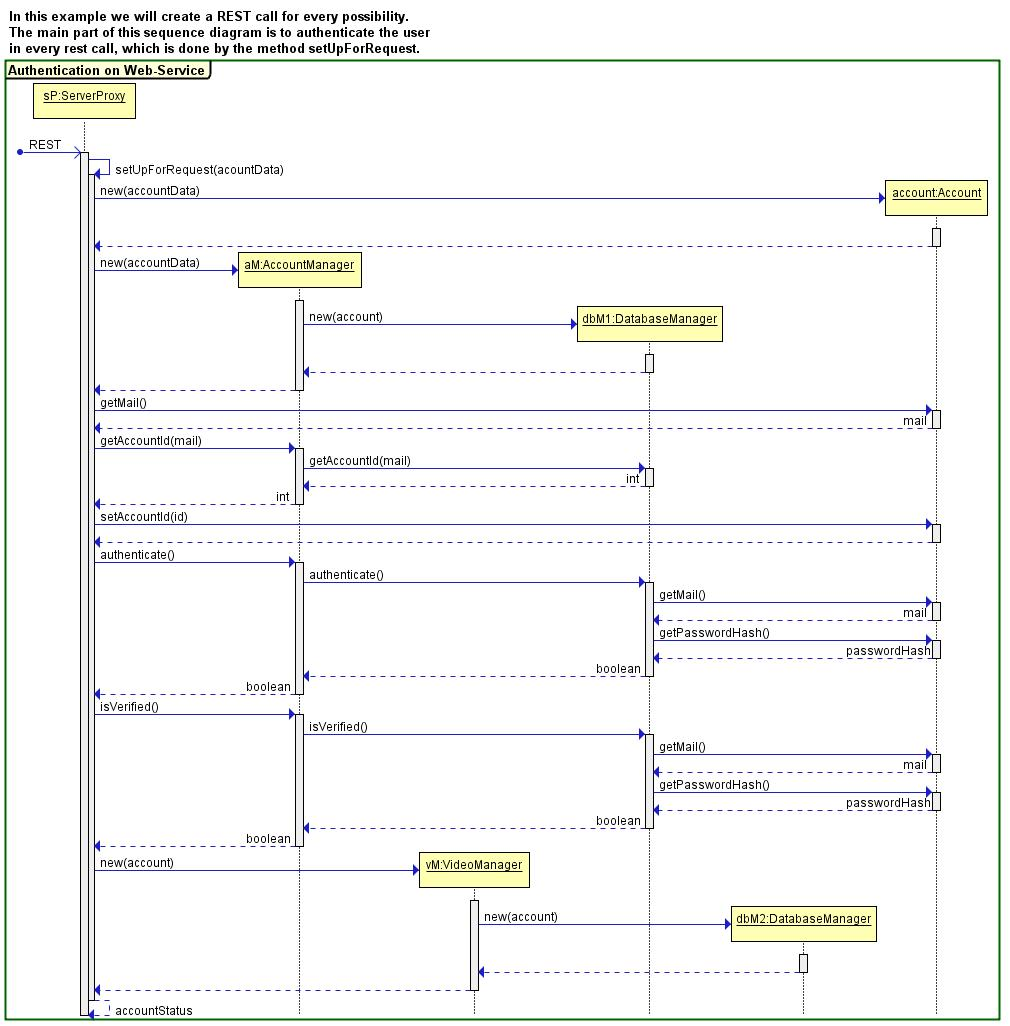
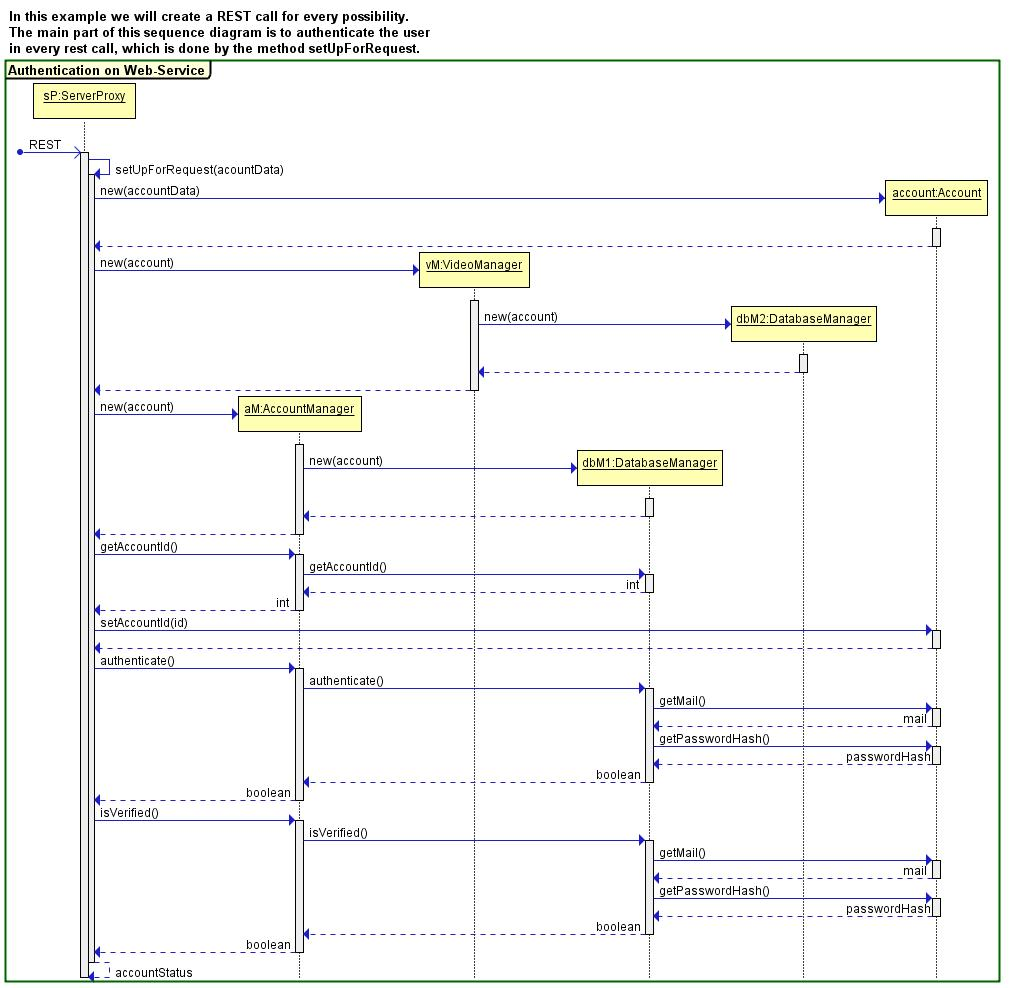
complete some class descriptions and fix sequences

diff --git a/subtopicsDesign/Webservice/Klassen/ServerProxy.tex b/subtopicsDesign/Webservice/Klassen/ServerProxy.tex
@@ -1,5 +1,5 @@
 \subsubsection{ServerProxy} \label{service:klasse:ServerProxy}
-Allgemeiner Text bliblablubb. \newline
+Der ServerProxy ist die Schnittstelle zwischen Web-Service und Web-Interface/App. Die Anfragen an den ServerProxy werden mittels der REST-API übermittelt. Die Anfragen werden in Teilanfragen aufgespalten und mithilfe der Manager Klassen weiter bearbeitet. \newline
 
 \underline{Attribute}
 \begin{itemize}
@@ -7,8 +7,14 @@ Allgemeiner Text bliblablubb. \newline
 \item \textbf{account: Account} \hfill\\ 
 \textbf{Sichtbarkeit} private
 
-Beschreibung
+Instanz des Accounts, der die Anfrage geschickt hat. Wird in der Methode setUpForRequest() initialisiert.
+\end{itemize}
 
+\underline{Konstruktoren}
+\begin{itemize}
+\itemsep0pt
+\item \textbf{ServerProxy()} \hfill\\
+Standardkonstruktor
 \end{itemize}
 
 \underline{Methoden}
@@ -17,51 +23,51 @@ Beschreibung
 \item \textbf{videoUpload (video: InputStream, metadata: InputStrem, encryptedSymmetricKey: String, accountData: String, response: AsyncResponse): String}\hfill\\
 \textbf{Sichtbarkeit} public
 
-Methodenbeschreibung
+Bearbeitet eine VideoUpload Anfrage der App. Übergibt die videobezogenen Parameter (video, metadata und encryptedSymmetricKey) und die AsyncResponse an die upload()-Methode im VideoManager. Die Rückgabe als Json-String gibt an, ob die Dateien vollständig angekommen sind. 
 
 \item \textbf{videoDownload(videoId: int, accountData: String): Response}\hfill\\
 \textbf{Sichtbarkeit} public
 
-Methodenbeschreibung
+Leitet einen Download-Anfrage ein. Gibt die VideoId an die download()-Methode des VideoManagers weiter. Mithilfe der Id wird dann das gesuchte Video gefunden. Die Response-Rückgabe ermöglicht den bekannten Download-Dialog auf dem Interface.
 
-i\item \textbf{videoInfo(videoId: int, accountData: String): String}\hfill\\
+\item \textbf{videoInfo(videoId: int, accountData: String): String}\hfill\\
 \textbf{Sichtbarkeit} public
 
-Methodenbeschreibung
+Bearbeitet eine Anfrage zur Informationsausgabe eines Videos des Web-Interfaces. Dabei werden die Metadaten des zugehörigen Videos über den VideoManager mithilfe der VideoId gefunden. Die String Rückgabe beinhaltet die relevanten Video Informationen.
 
 \item \textbf{videoDelete(videoId: int, accountData: String): String}\hfill\\
 \textbf{Sichtbarkeit} public
 
-Methodenbeschreibung
+Bearbeitet eine Anfrage zum Löschen eines Videos des Web-Interfaces. Diese wird über die deleteVideo()-Methode des VideoManagers weiter bearbeitet. Die String Rückgabe gibt Meldung über das Ergebnis der Anfrage.
 
-\item \textbf{videoListOfUser(accountData: String): String}\hfill\\
+\item \textbf{getVideosByAccount(accountData: String): String}\hfill\\
 \textbf{Sichtbarkeit} public  
 
-Methodenbeschreibung
+Bearbeitet eine Anfrage zur Videolistenrückgabe des Web-Interface für einen bestimmten Nutzer. Dabei wird im VideoManager die getVideoListMethode aufgerufen. Diese bearbeitet die Anfrage und gibt einen Json-String mit den Videoinformationen zurück. Dieser Json-String wird aus dem ArrayList<VideoInfo> erstellt. Diese werden dann auch an das Web-Interface zurückgegeben. 
 
 \item \textbf{authenticateAccount(accountData: String): String}\hfill\\
 \textbf{Sichtbarkeit} public
 
-Methodenbeschreibung
+Bearbeitet eine Anfrage zur Authentifizierungs des Web-Interfaces oder App. Dabei wird auf die Rückgabe von setUpForRequest() gewartet und der String dann an die anfragende Instanz weitergeleitet.
 
 \item \textbf{createAccount(accountData: String): String}\hfill\\
 \textbf{Sichtbarkeit} public
 
-Methodenbeschreibung
+Bearbeitet eine Anfrage zur Accounterstellungs des Web-Interfaces. Dabei wird im AccountManager die Methode registerAccount() aufgerufen. Die Rückgabe gibt Meldung über das Ergebnis der Anfrage an das Web-Interface.
 
 \item \textbf{changeAccount(accountDataNew: String, accountData: String): String}\hfill\\
 \textbf{Sichtbarkeit} public
 
-Methodenbeschreibung
+Bearbeitet eine Anfrage zur Passwort/Mailänderung des Web-Interfaces. Dabei werden im AccountManager die Methoden setMail() und setPassword()  aufgerufen. Die Rückgabe gibt Meldung über das Ergebnis der Anfrage an das Web-Interface.
 
 \item \textbf{deleteAccount(accountData: String): String}\hfill\\
 \textbf{Sichtbarkeit} public
 
-Methodenbeschreibung
+Bearbeitet eine Anfrage zur Löschung eines Accounts des Web-Interfaces. Hierbei müssen zunächst alle Videos und deren Metadaten des Accounts gelöscht werden, bevor der Account gelöscht wird. Dafür muss über den VideoManager getVideoInfoList() aufgerufen werden und für jeden Eintrag in der Liste deleteVideo() ausgeführt werden. Danach wird im AccountManager die Methode deleteAccount() aufgerufen. Die Rückgabe gibt Meldung über das Ergebnis der Anfrage an das Web-Interface.
 
 \item \textbf{setUpForRequest(accountData: String)}\hfill\\
 \textbf{Sichtbarkeit} private
 
-Methodenbeschreibung
+Bei jeder Anfrage wird zu Beginn die private Methode setUpForRequest() aufgerufen, um die die Manager Klassen zu initialisieren und Authentifizierung des Accounts zu gewährleisten. Die Rückgabe gibt Meldung über das Ergebnis der Authentifizierung des Accounts. Die Authentifizierung ruft im AccountManager die Methoden getAccountId(), authenticate() und isVerified() auf.
 
 \end{itemize}

diff --git a/subtopicsDesign/Webservice/Klassen/VideoManager.tex b/subtopicsDesign/Webservice/Klassen/VideoManager.tex
@@ -1,12 +1,13 @@
-\subsubsection{VideoManager} \label{service:klasse:VideoManager}
-Allgemeiner Text bliblablubb. \newline
+\subsubsection{VideoManager}
+Der VideoManager verbindet zwischen dem ServiceConnector-Modul und dem Data- bzw. VideoProcessing-Modul. Er bearbeitet die Anfragen des ServerProxys und gibt die gefragten Ergebnisse zurück.\newline
 
 \underline{Attribute}
 \begin{itemize}
 \itemsep0pt
 \item \textbf{account: Account} \hfill\\ 
 \textbf{Sichtbarkeit} private 
-Beschreibung
+
+Account-Instanz, welche zur Bearbeitung der verschiedenen Anfragen benötigt wird.
 
 \end{itemize}
 
@@ -15,35 +16,37 @@ Beschreibung
 \itemsep0pt
 \item \textbf{VideoManager(account :Account)} \hfill\\
 \textbf{Sichtbarkeit} public
+
+Erstellt eine Instanz eines VideoManagers mit dem dazugehörigen Account. Dieser wird vom ServerProxy über die Parameter übergeben und dann gesetzt.
 \end{itemize}
 
 \underline{Methoden}
 \begin{itemize}
 \itemsep0pt
-\item \textbf{getVideoInfoList(): String}\hfill\\
+\item \textbf{getVideoInfoList(): ArrayList<VideoInfo>}\hfill\\
 \textbf{Sichtbarkeit} public
 
-Methodenbeschreibung
+Bearbeitete eine Anfrage vom ServerProxy zur Videolistenrückgabe. Dabei wird im DatabaseManager die Methode getVideoInfoList() aufgerufen. Die ArrayList Der VideoInfo-Objekte wird dann an den ServerProxy zurückgegeben.    
 
 \item \textbf{upload(video: InputStream, metaData: InputStream,
 encryptedSymmetricKey: String, response: AsyncResponse): String}\hfill\\
 \textbf{Sichtbarkeit} public
 
-Methodenbeschreibung
+Bearbeitet eine Anfrage vom ServerProxy zum Uploaden. Da der Upload komplett vom VideoProcessing-Modul übernommen wird, werden hier alle übergebenen Parameter und der Account beim Aufruf der Methode addTask() vom VideoProcessingManager übergeben.
 
 \item \textbf{download(videoId: int): File}\hfill\\
 \textbf{Sichtbarkeit} public
 
-Methodenbeschreibung
+Bearbeitet eine Anfrage vom ServerProxy zum Download eines Videos. Dabei wird vom DatabaseManager die Methode getVideoInfo() aufgerufen um mittels der VideoId den Videonamen über das VideoInfo Objekt zu bekommen. Somit kann dann das gewünschte File gefunden und zurückgegeben werden.
 
 \item \textbf{deleteVideo(videoId :int): String}\hfill\\
 \textbf{Sichtbarkeit} public
 
-Methodenbeschreibung
+Bearbeitet eine Anfrage vom SererProxy zum Löschen eines Videos. Zunächst wird die Methode getVideoInfo() und getMetadata() des DatabaseManagers aufgerufen. Somit bekommen wir über das VideoInfo-Objekt und Metadata-Objekt den Videonamen und Metadatanamen und können diese Files löschen. Daraufhin wird die Methode deleteVideoAndMetaPath() des DatabaseMangers aufgerufen, welche die beiden Einträge aus der Datenbank löscht.
 
 \item \textbf{getMetadata(videoId :int): String}\hfill\\
 \textbf{Sichtbarkeit} public
 
-Methodenbeschreibung
+Bearbeitet die Anfrage vom ServerProxy zum Ausgeben der Metadata eines Videos. Es wird im DatabaseManager die Methode getMetadata() aufgerufen, welche ein Metadata-Objekt zurückgibt. Die relevanten Attribute werden in ein Json-String umgewandelt und dann an den ServerProxy zurückgeben.
 
 \end{itemize}

diff --git a/subtopicsDesign/Webservice/Klassen/AccountManager.tex b/subtopicsDesign/Webservice/Klassen/AccountManager.tex
@@ -1,11 +1,13 @@
 \subsubsection{AccountManager}
-Allgemeiner Text bliblablubb. \newline
+verbindet zwischen dem ServiceConnector-Modul und dem Data-Modul. Er bearbeitet die Anfragen des ServerProxys und gibt die gefragten Ergebnisse zurück. \newline
 
 \underline{Attribute}
 \begin{itemize}
 \itemsep0pt
 \item \textbf{account: Account} \hfill\\ 
 \textbf{Sichtbarkeit} public
+
+Account-Instanz, welche zur Bearbeitung der verschiedenen Anfragen benötigt wird.
 \end{itemize}
 
 \underline{Konstruktoren}
@@ -13,6 +15,8 @@ Allgemeiner Text bliblablubb. \newline
 \itemsep0pt
 \item \textbf{AccountManager(account: Account)} \hfill\\
 \textbf{Sichtbarkeit} public
+
+Erstellt eine Instanz eines VideoManagers mit dem dazugehörigen Account. Dieser wird vom ServerProxy über die Parameter übergeben und dann gesetzt.
 \end{itemize}
 
 \underline{Methoden}
@@ -21,31 +25,35 @@ Allgemeiner Text bliblablubb. \newline
 \item \textbf{setMail(newMail: String): String}\hfill\\
 \textbf{Sichtbarkeit} public
 
-Methodenbeschreibung
+Bearbeitet eine Anfrage vom ServerProxy zur Ersetzung einer Mail eines Accounts. Die übergebene Mail wird dann im DatabaseManager mit der Methode setMail() gesetzt.
 
-\item \textbf{setPassword(newPassword: String): String}\hfill\\
+\item \textbf{setPassword(newPasswordHash: String): String}\hfill\\
 \textbf{Sichtbarkeit} public
 
-Methodenbeschreibung
+Bearbeitet eine Anfrage vom ServerProxy zur Ersetzung eines Passwort eines Accounts. Das übergebene Passwort wird dann im DatabaseManager mit der Methode setPassword() gesetzt.
 
-\item \textbf{getAccountId(mail: String): int}\hfill\\
+\item \textbf{getAccountId(): int}\hfill\\
 \textbf{Sichtbarkeit} public
 
-Methodenbeschreibung
+Bearbeitet eine Anfrage vom ServerProxy zur Bestimmung der AccountId zu einer Mail-Adresse. Die Anfrage wird zum DatabaseManager weitegeleitet und somit die Methode getAccountId() aufgerufen. Von dort aus wird sie bis zum Server Proxy zurückgegeben.  
+
 \item \textbf{registerAccount(): String}\hfill\\
 \textbf{Sichtbarkeit} public
 
-Methodenbeschreibung
+Bearbeitet eine Anfrage vom ServerProxy zur Accountregistrierung. Dabei wird beim DatabaseManager die Methode register() aufgerufen und die Accountdaten im zugehörigen Accountattribut gesetzt. 
+
 \item \textbf{deleteAccount(): String}\hfill\\
 \textbf{Sichtbarkeit} public
 
-Methodenbeschreibung
+Bearbeitet eine Anfrage vom ServerProxy zur Löschung eines Accounts. Dabei wird im DatabaseManager die Methode deleteAccount() aufgerufen.
+
 \item \textbf{authenticate(): boolean}\hfill\\
 \textbf{Sichtbarkeit} public
 
-Methodenbeschreibung
+Bearbeitet eine Anfrage vom ServerProxy zur Authentifizierung des Accounts. Die Methode authenticate() vom DatabaseManager wird hierbei aufgerufen.
+ 
 \item \textbf{isVerfied(): boolean}\hfill\\
 \textbf{Sichtbarkeit} public
 
-Methodenbeschreibung
+Bearbeitet eine Anfrage vom ServerProxy zum Verifizierungsstatus eines Accounts. Die Anfrage wird zum DatabaseManager weitergeleitet und die Methode isVerified() aufgerufen. Von dort wird der Vierfizierungsstatus bis zum ServerProxy zurückgegeben.
 \end{itemize}
